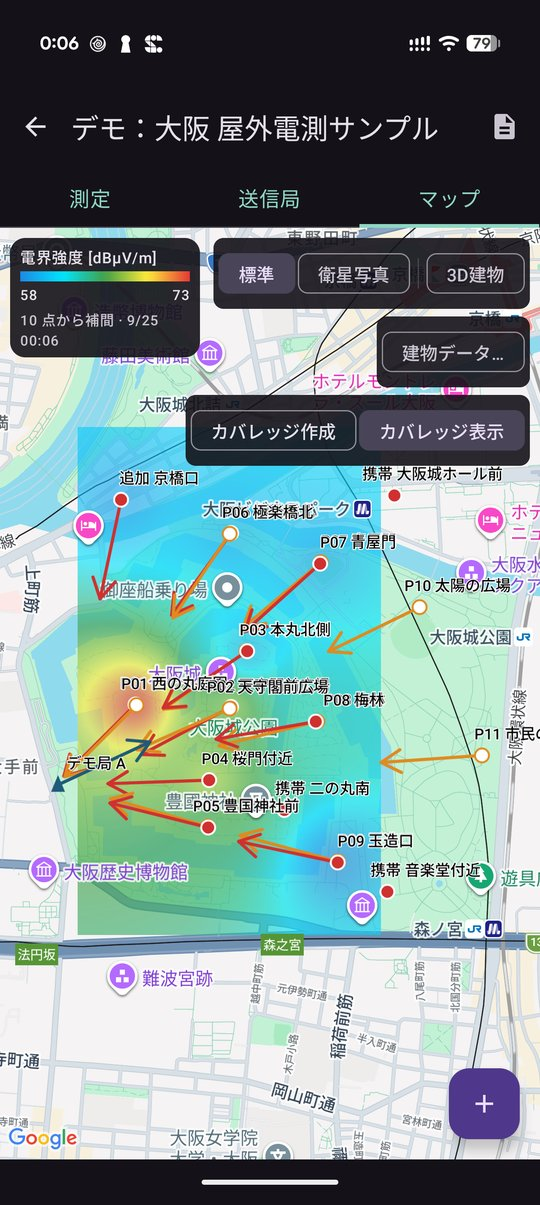
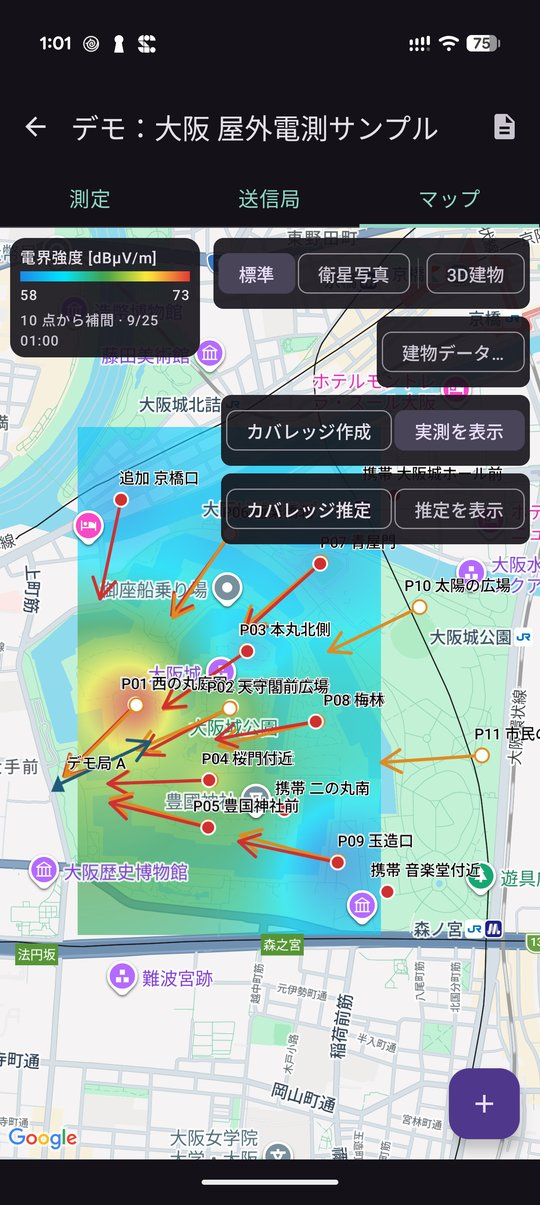
電測記録 1.1.0（カバレッジ推定）

diff --git a/radio_survey/privacy-policy.html b/radio_survey/privacy-policy.html
@@ -19,7 +19,7 @@
 <body>
 
 <h1>電測記録 プライバシーポリシー</h1>
-<p class="updated">制定日・最終更新日: 2026年9月24日（電測記録 1.0）</p>
+<p class="updated">制定日: 2026年9月24日（電測記録 1.0）／ 最終更新日: 2026年9月25日（電測記録 1.1.0）</p>
 
 <h2>収集する情報</h2>
 <p>
@@ -32,7 +32,7 @@
 <table>
   <tr><th>データ</th><th>保存場所</th><th>外部送信</th></tr>
   <tr>
-    <td>実験・送信局・測定（プラン値と実測値、日時、座標、方位角、周波数、電界強度、メモ）</td>
+    <td>実験・送信局・測定（プラン値と実測値、日時、座標、方位角、周波数、電界強度、送信電力・アンテナの設定、推定電界強度、メモ）</td>
     <td>端末内のアプリ専用のデータベース</td>
     <td>なし</td>
   </tr>
@@ -47,7 +47,7 @@
     <td>なし</td>
   </tr>
   <tr>
-    <td>取り込んだ建物データ・作成したカバレッジマップ・表示の設定</td>
+    <td>取り込んだ建物データ・作成したカバレッジマップ・カバレッジ推定の結果・取得した標高データ（次回の推定用の一時保存）・表示の設定</td>
     <td>端末内のアプリ専用領域</td>
     <td>なし</td>
   </tr>
@@ -99,11 +99,16 @@
     <td>必要な地図タイルの番号（ズームと位置から決まるタイル座標。配置図に入る範囲に相当します）と、アプリを識別するための User-Agent</td>
     <td>PDF レポートの配置図の背景（PDF を書き出したときだけ）</td>
   </tr>
+  <tr>
+    <td>国土地理院 標高タイル<br><code>cyberjapandata.gsi.go.jp</code></td>
+    <td>推定範囲に必要な標高タイルの番号（タイル座標。送信局と測定点を含む推定範囲に相当します）と、アプリを識別するための User-Agent</td>
+    <td>カバレッジ推定（マップタブの「カバレッジ推定」を押したときだけ）。一度取得した範囲は端末に保存し、次回は通信しません</td>
+  </tr>
 </table>
 
 <p>
 いずれも測定値・写真・メモ・携帯網の記録そのものを送ることはありません。
-ただし、地図を表示する範囲、建物データを取得する範囲、配置図のタイルの位置は、測定点の周辺の場所を示すため、
+ただし、地図を表示する範囲、建物データを取得する範囲、配置図のタイルの位置、カバレッジ推定の標高タイルの位置は、測定点の周辺の場所を示すため、
 それぞれのサービスに伝わります。これらのサービス側でのアクセス記録（IP アドレスなど）の扱いは、各サービスの規約・ポリシーに従います。
 Google マップでの情報の取り扱いは
 <a href="https://policies.google.com/privacy">Google プライバシーポリシー</a>

diff --git a/radio_survey/README.md b/radio_survey/README.md
@@ -8,20 +8,20 @@
 
 ## ダウンロード
 
-### [APK をダウンロード（v1.0.1・2.1 MB）](https://github.com/kijitora-no-hito/android-apps/releases/download/radiosurvey-v1.0.1/radiosurvey-1.0.1-release.apk)
+### [APK をダウンロード（v1.1.0・2.2 MB）](https://github.com/kijitora-no-hito/android-apps/releases/download/radiosurvey-v1.1.0/radiosurvey-1.1.0-release.apk)
 
 | 項目 | 内容 |
 | --- | --- |
-| バージョン | 1.0.1（2026-09-25） |
-| ファイル | `radiosurvey-1.0.1-release.apk`（2,210,363 バイト） |
[1 lines of base64/hex data omitted]
+| バージョン | 1.1.0（2026-09-25） |
+| ファイル | `radiosurvey-1.1.0-release.apk`（2,259,211 バイト） |
[1 lines of base64/hex data omitted]
 | 対応 Android | 8.0 以上 |
 | 価格 | 無料・広告なし・アプリ内課金なし・アカウント登録なし |
 
 | 権限 | 使いみち |
 | --- | --- |
 | 位置情報（詳細・おおよそ） | 測定点の座標を GPS で取る、地図に現在地を出す、携帯網のセル情報を読む（Android ではセル情報の取得に位置情報の許可が必要です）。使うときに許可を求めます。バックグラウンドでは使いません |
-| インターネット / ネットワーク状態の確認 | 地図、建物データの取得、PDF の配置図の地図（どちらも許可ダイアログは出ません） |
+| インターネット / ネットワーク状態の確認 | 地図、建物データの取得、PDF の配置図の地図、カバレッジ推定の標高データの取得（どちらも許可ダイアログは出ません） |
 
 カメラ・写真・ストレージの権限は使いません（撮影は端末のカメラアプリに任せ、レポートは保存先を選んで書き出します）。
 
@@ -55,6 +55,7 @@
 - 実験のマップタブに、送信局と測定点（プラン / 実測）がアンテナ方位の矢印つきで並びます。
 - **カバレッジマップ**: 実測済みの点から電界強度（または RSRP）の面を補間し、色分けで地図に重ねます。
 - **建物データ**: 表示している範囲の建物の輪郭を OpenStreetMap から取り込み、高さで色分けした線で重ねます。取り込んだデータは保存され、次回もすぐ表示できます。
+- **カバレッジ推定**: 送信局の設定（位置・高さ・周波数・送信電力・アンテナ利得と向き）と地形・建物データから、エリアの電界強度と各測定点の推定値を計算します。推定値はプランの想定電界強度に取り込んだり、実測との差を確かめたりでき、レポートにも載ります。
 
 ### レポート
 
@@ -82,6 +83,10 @@
 <td align="center"><img src="images/06-buildings.jpg" width="220" alt="建物データの重ね表示"><br>建物データ（OpenStreetMap）</td>
 </tr>
 <tr>
+<td align="center"><img src="images/11-estimate.jpg" width="220" alt="カバレッジ推定"><br>カバレッジ推定</td>
+<td align="center"><img src="images/12-plan-estimate.jpg" width="220" alt="プランの推定電界強度"><br>プランに推定電界強度を表示</td>
+</tr>
+<tr>
 <td align="center"><img src="images/07-record.jpg" width="220" alt="実測の記録"><br>実測の記録（プラン値を参照）</td>
 <td align="center"><img src="images/10-satellite.jpg" width="220" alt="衛星写真のマップ"><br>衛星写真に切り替え</td>
 </tr>
@@ -93,7 +98,8 @@
 
 ## 注意
 
-- 地図・建物データ・PDF の配置図にはインターネット接続が必要です。機内モードでは地図が出ません（PDF は通信できないと配置図が簡易図になります）。
+- 地図・建物データ・PDF の配置図・カバレッジ推定の標高データにはインターネット接続が必要です。機内モードでは地図が出ません（PDF は通信できないと配置図が簡易図に、カバレッジ推定は平らな地面として計算します）。
+- カバレッジ推定の値は計算による目安です。実際の電界強度は測って確かめてください。範囲は送信局と測定点を含めて約 10 km 四方までです。
 - 地図の表示には Google Play 開発者サービスが必要です（入っていない一部の端末では地図が出ません）。
 - 携帯網の記録には SIM と位置情報の許可が必要です。圏外や SIM 無しでは取れず、端末によって取れる項目が違います。
 - 表示・記録される値は端末で得た目安です。**校正された測定器の代わりにはなりません。**
@@ -116,6 +122,7 @@
 - 地図: Google マップ（Google のロゴと出典は地図上に表示されます）
 - 建物データ: © [OpenStreetMap](https://www.openstreetmap.org/copyright) contributors（ODbL）。[Overpass API](https://overpass-api.de/) で取得
 - PDF の配置図: [国土地理院（地理院タイル）](https://maps.gsi.go.jp/development/ichiran.html)
+- カバレッジ推定の標高: [国土地理院（標高タイル）](https://maps.gsi.go.jp/development/ichiran.html)
 
 ## プライバシーポリシー
 
